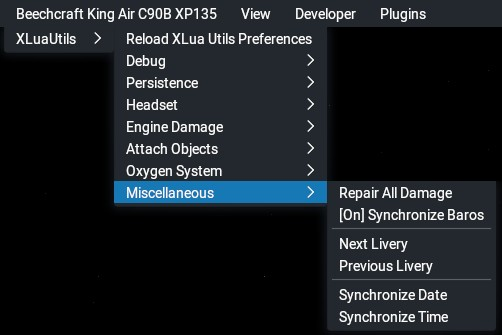
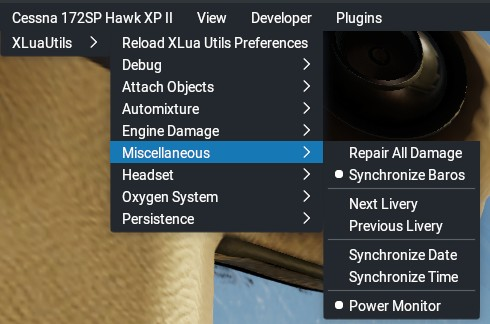
Added Power Monitor to Misc Utils

diff --git a/Documentation/Misc_Utils.md b/Documentation/Misc_Utils.md
@@ -9,7 +9,8 @@ This document contains information about XLuaUtil's collection of miscellaneous 
 <a name="toc"></a>
 ### Table of Contents
 1. [Menu/Functionality](#1)   
-2. [Configuration via Preferences.cfg](#2)   
+2. [General Configuration](#2)   
+3. [Power Monitor](#3)   
 
 &nbsp;
  
@@ -26,6 +27,7 @@ Next Livery|Switches to the next livery for the current aircraft
 Previous Livery|Switches to the previous livery for the current aircraft
 Synchronize Date|Synchronizes X-Plane's day and month to the system's day and month. Does not consider the year!
 Synchronize Time|Synchronizes X-Plane's local time to the system's local time
+Power Monitor|Outputs engine power data to the notification window 
 
 &nbsp;
 
@@ -34,7 +36,7 @@ Synchronize Time|Synchronizes X-Plane's local time to the system's local time
 &nbsp;
 
 <a name="2"></a>
-### 2. Configuration
+### 2. General Configuration
 
 The miscellaneous utilities can be configured in _"plugins/xlua/scripts/xluautils/preferences.cfg"_. Relevant lines:
 
@@ -47,6 +49,74 @@ Parameter|Value Range|Description
 -|-|-
 MainTimerInterval|> 0|Sets the refresh interval, in seconds, for the main timer used by misc utilities. Should be greater than zero.
 SyncBaros|0 or 1|1: Barometer synchronization (see "Menu" above) is enabled
+
+&nbsp;
+
+[Back to table of contents](#toc)
+
+&nbsp;
+
+<a name="3"></a>
+### 3. Power Monitor
+
+The Power Monitor is very much inspired by the one in [SimCoders' Reality Expansion Packs](https://www.simcoders.com/reality-expansion-pack/overview/). it offers a possibility to monitor relevant engine parameters without having to enable XP's data outputs or looking at the instruments.  
+
+&nbsp;
+
+#### 3.1 Features
+
+Power Monitor offers the following outputs, per engine:
+
+- Engine power as a percentage
+- Optional: Scaled engine power (in case it is required)
+- Engine horsepower
+- Engine RPM
+- Engine manifold pressure
+- Cylinder head temperature (CHT)
+- Fuel flow in various units (see below), but always per hour
+
+&nbsp;
+
+#### 3.2 Limitations
+
+- At the moment, Power Monitor is only configured for reciprocating engines
+- Guessing the temperature units from the ACF file, while possible, is not something I wish to implement (at the moment), so both units (°C/°F) are displayed at any time, with the user required to figure out which one X-Plane uses (hint open the aircraft in PlaneMaker and then look in the "Standard" --> "Systems" --> "Limits 1/2" menu).
+
+&nbsp;
+
+#### 3.3 Usage
+
+Toggle Power Monitor on/off with the _"Power Monitor"_ menu item.
+
+Power Monitor will check X-Plane's main throttle, mixture and prop lever input datarefs for changes and then display the engine parameters listed above for each running engine in a notification window. If no change from these levers has been determined for 5 seconds or if the engine produces negative power during deceleration, the notification window will close itself again.   
+However, it is also possible to have it open permanently as long as the engine produces positive power (see below).
+
+
+&nbsp;
+ 
+#### 3.3 Configuration
+
+Power Monitor can only be configured in _"plugins/xlua/scripts/xluautils/preferences.cfg"_. Relevant lines:
+
+```
+MISC_UTILS,PowerMonitor:string,1:number
+MISC_UTILS,PowerMonitorDisplayTime:string,5:number
+MISC_UTILS,PowerMonitorScalar:string,1.0:number
+MISC_UTILS,PowerMonitorInputChange:string,0.005:number
+MISC_UTILS,PowerMonitorFuelUnit:string,kg:string
+```
+
+Parameter|Value Range|Description
+-|-|-
+PowerMonitor|0 or 1|1: Power Monitor is enabled.
+PowerMonitorDisplayTime|<1 or >1|>1: The Power Monitor notification will stay visbile for this amount of time after no throttle, mixture or prop change has been detected.<br><1: The Power Monitor notification is permenetly open as long as the engine produces positive power.  
+PowerMonitorScalar|<1.0 or >1.0|Enables a scaled output of the engine power percentage when smaller or greater than 1.0. May be useful in some scenarios.
+PowerMonitorInputChange|0 to 1|The delta that the throttle, mixture or power lever must move in order to trigger the Power Monitor notification.
+PowerMonitorFuelUnit|kg<br>lbs<br>gal_avgas<br>gal_jet-a<br>l_avgas<br>l_jet-a|Outputs the fuel flow in the specified format.<br>Fuel flow is always [unit] per hour.<br>Conversion factors: 2.20462 lbs/kg, Avgas: 5.87 lbs/gal (per X-Plane) and 0.719 kg/l, Jet-A: 6.66 lbs/gal and 0.796 kg/l.
+
+&nbsp;
+
+Changed parameters can be reloaded in X-Plane from the "XLuaUtils" menu with _"Reload XLuaUtils Preferences"_.
 
 &nbsp;
 
